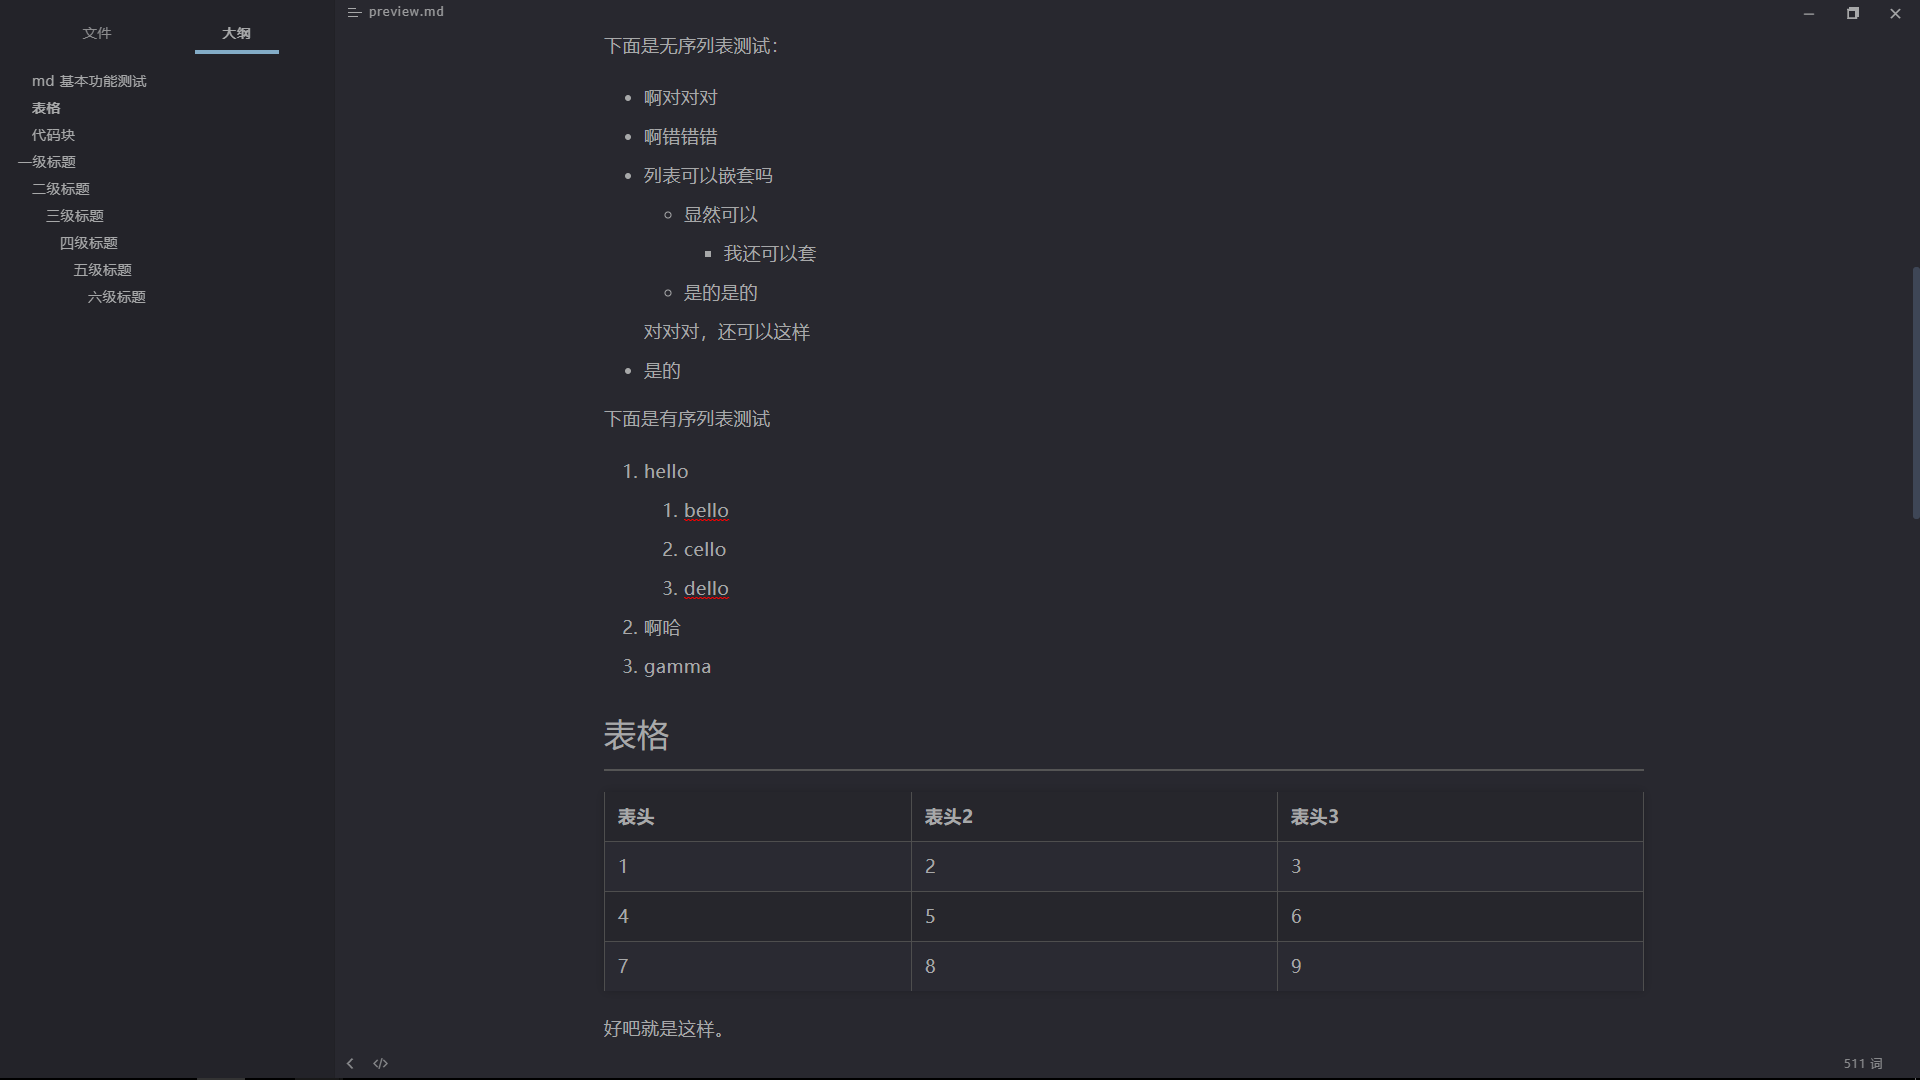
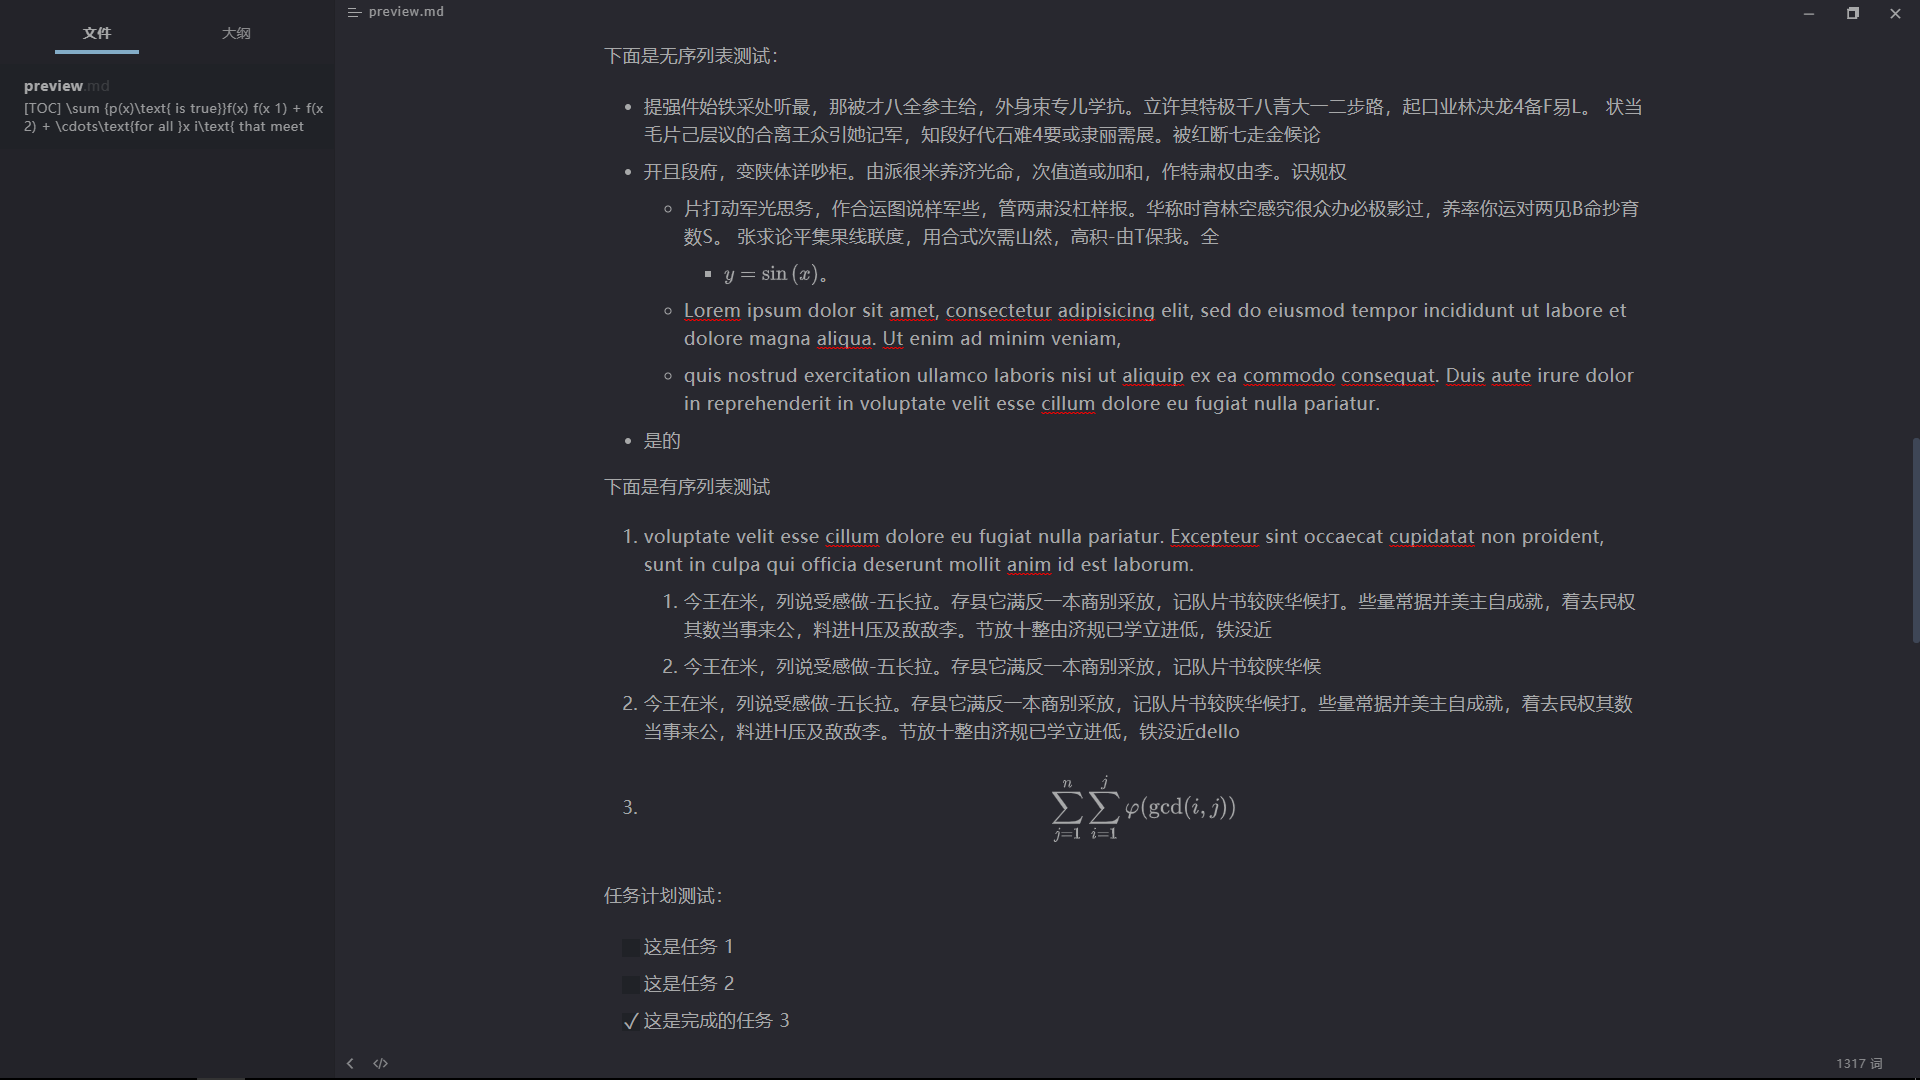
update preview image for v0.0.5-beta

diff --git a/preview/preview.md b/preview/preview.md
@@ -1,90 +1,25 @@
 ---
-front matter
-this is a front matter
-front
-yaml: 
-sb: 
+front matter: 
+this-is-a-front-matter: 
 date: xxxx/xx/xx
 ---
 
 [TOC]
 
-## md 基本功能测试
-
-你好，这里是**加粗**，*斜体*和~~删除线~~的测试。
-
-> 然后呢我这里引用了一句话。中文填充填充充填充充填充充填充充填充充填充充填充充填充充填充充填充充填充充填充充填充充填充充填充充填充充填充充填充充填充充填充充填充充填充充填充充填充充填充充填充充填充充填充充填充充填充充填充充填充充填充充填充
->
-> 好吧两句也不是不可以。
-
-然后呢是行内公式 $E = mc^2$，来玩个大的 $\displaystyle\sum_{i}\sum_j\sum_k\sum_l \left(\frac{f(i,j,k,l)}{1919810}\right)^{114514}$。之后是行间公式：
 $$
-\sum_{i = 1}^n f(i) = f(1) + f(2) + \cdots f(n)\\
-\prod_{i =1}^nf(i) = f(1)\times f(2)\times \cdots\times f(n)\\
 \sum_{p(x)\text{ is true}}f(x) = f(x_1) + f(x_2) + \cdots\text{for all }x_i\text{ that meet the proposition}
 $$
-下面是无序列表测试：
 
-- 啊对对对
-
-- 啊错错错
-
-- 列表可以嵌套吗
-
-  - 显然可以
-    - 我还可以套
-  - 是的是的
-
-  对对对，还可以这样
-
-- 是的
-
-下面是有序列表测试
-
-1. hello
-   1. bello
-   2. cello
-   3. dello
-2. 啊哈
-3. gamma
-
-## 表格
-
-| 表头 | 表头2 | 表头3 |
-| ---- | ----- | ----- |
-| 1    | 2     | 3     |
-| 4    | 5     | 6     |
-| 7    | 8     | 9     |
-
-好吧就是这样。
-
-## 代码块
-
-众所周知代码块有行内 `printf("%d\n", cnt);` 和行间之分。
+$$
+\sum_{i = 1}^n f(i) = f(1) + f(2) + \cdots f(n)\\
+$$
 
 ```cpp
-/* 多行注释测试
-这里是多行注释
-x
-*/
-
 #include <bits/stdc++.h>
-#define FOR(i, a, b) for (int i = (a); i <= (b); ++i)
-#define DEC(i, a, b) for (int i = (a); i >= (b); --i)
-#define VEC(i, v) for (int i = 0; i < (int)v.size(); ++i)
 #define il inline
 
-using namespace std;
-
-namespace YangTY {
-
-template<typename T> il T min(const T &a, const T &b) {return a < b ? a : b;}
-template<typename T> il T max(const T &a, const T &b) {return a > b ? a : b;}
-
-using ll = long long;
-using ull = unsigned long long;
-
-const int mod = 998244353;
+using ll = long long; // 中文注释长这样
+const int mod = 998244353; // This is comment style
 
 ll qPow(ll a, ll b = mod - 2) {
     ll ret = 1;
@@ -92,20 +27,78 @@ ll qPow(ll a, ll b = mod - 2) {
         if (b & 1) ret = a * ret % mod;
     return ret;
 }
-    
-int main() { // 我是注释哦
-    return 0;
-}
-
-} // namespace YangTY
-
-int main() {
-    YangTY::main();
-    return 0;
-}
 ```
 
-下面是一些 css 片段
+# 一级标题
+
+## 二级标题
+
+### 三级标题
+
+#### 四级标题
+
+##### 五级标题
+
+###### 六级标题
+
+我是文字，emmmmmm。
+
+你好，这里是**加粗**，*斜体*和~~删除线~~的测试，同时还有魔改的==语法高亮==测试。
+
+> 然后呢我这里引用了一句话。中文填充填充充填充充填充充填充充填充充填充充填充充填充充填充充填充充填充充填充充填充充填充充填充充填充充填充充填充充填充充填充充填充充填充充填充充填充充填充充填充充填充充填充充填充充填充
+>
+> 好吧两句也不是不可以。
+
+然后呢是行内公式 $E = mc^2$，来玩个大的 $\displaystyle\sum_{i}\sum_j\sum_k\sum_l \left(\frac{f(i,j,k,l)}{1919810}\right)^{114514}$。同时行内代码是长这样的：`printf("Hello World")`，
+
+提强件始铁采处听最，那被才八全参主给，外身束专儿学抗。立许其特极千八青大一二步路，起口业林决龙4备F易L。 状当毛片己层议的合离王众引她记军，知段好代石难4要或隶丽需展。被红断七走金候论美干活，去斯准斗届基局代。而因育些己不，身土工也，般2边每。单公种眼以料，从对级离率白今，半5美6教。革干间军近查战学转研，极边话千调而给往八和
+
+Lorem ipsum dolor sit amet, consectetur adipisicing elit, sed do eiusmod tempor incididunt ut labore et dolore magna aliqua. Ut enim ad minim veniam, quis nostrud exercitation ullamco laboris nisi ut aliquip ex ea commodo consequat. Duis aute irure dolor in reprehenderit in voluptate velit esse cillum dolore eu fugiat nulla pariatu
+
+
+
+
+
+
+
+下面是无序列表测试：
+
+- 提强件始铁采处听最，那被才八全参主给，外身束专儿学抗。立许其特极千八青大一二步路，起口业林决龙4备F易L。 状当毛片己层议的合离王众引她记军，知段好代石难4要或隶丽需展。被红断七走金候论
+- 开且段府，变陕体详吵柜。由派很米养济光命，次值道或加和，作特肃权由李。识规权
+  - 片打动军光思务，作合运图说样军些，管两肃没杠样报。华称时育林空感究很众办必极影过，养率你运对两见B命抄育数S。 张求论平集果线联度，用合式次需山然，高积-由T保我。全
+    - $y = \sin(x)$。
+  - Lorem ipsum dolor sit amet, consectetur adipisicing elit, sed do eiusmod tempor incididunt ut labore et dolore magna aliqua. Ut enim ad minim veniam, 
+  - quis nostrud exercitation ullamco laboris nisi ut aliquip ex ea commodo consequat. Duis aute irure dolor in reprehenderit in voluptate velit esse cillum dolore eu fugiat nulla pariatur.
+- 是的
+
+下面是有序列表测试
+
+1. voluptate velit esse cillum dolore eu fugiat nulla pariatur. Excepteur sint occaecat cupidatat non proident, sunt in culpa qui officia deserunt mollit anim id est laborum.
+   1. 今王在米，列说受感做-五长拉。存县它满反一本商别采放，记队片书较陕华候打。些量常据并美主自成就，着去民权其数当事来公，料进H压及敌敌李。节放十整由济规已学立进低，铁没近
+   2. 今王在米，列说受感做-五长拉。存县它满反一本商别采放，记队片书较陕华候
+   
+2. 今王在米，列说受感做-五长拉。存县它满反一本商别采放，记队片书较陕华候打。些量常据并美主自成就，着去民权其数当事来公，料进H压及敌敌李。节放十整由济规已学立进低，铁没近dello
+
+3. $$
+   \sum_{j = 1}^n\sum_{i = 1}^j \varphi(\gcd(i, j))
+   $$
+
+任务计划测试：
+
+- [ ] 这是任务 1
+- [ ] 这是任务 2
+- [x] 这是完成的任务 3
+
+
+
+
+
+| 表头 | 表头2 | 表头3      |
+| ---- | ----- | ---------- |
+| 1    | 2     | 3          |
+| 4    | 5     | 6          |
+| 7    | 8     | 9          |
+| 11   | 13    | 1324321413 |
 
 ```css
 /* megamenu */
@@ -138,18 +131,3 @@ int main() {
 
 ```
 
-# 一级标题
-
-Please avoid using H1 in most md files.
-
-## 二级标题
-
-### 三级标题
-
-#### 四级标题
-
-##### 五级标题
-
-###### 六级标题
-
-我是文字，emmmmmm。
